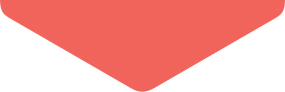
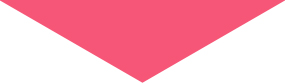
lnb 수정

diff --git a/src/css/01_layout.css b/src/css/01_layout.css
@@ -77,9 +77,9 @@ caption{visibility:hidden;overflow:hidden;width:0;height:0;font-size:0;line-heig
 #top .searchWrap .recently li{border-radius: 20px;border:1px solid #d9d9d9;}
 #top .searchWrap .recently a{display: inline-block;padding: 12px 14px;color: #666;}
 
-.lnbWrapper {overflow: hidden;position: fixed;top: 0;bottom: 0;left: -285px;width:285px;height: 100%;background:#fff;z-index:2;box-shadow:0px 6px 6px rgba(0,0,0,0.12);}
+.lnbWrapper {overflow: hidden;position: fixed;top:113px;bottom: 0;left: -285px;width:285px;height: 100%;background:#fff;z-index:110;box-shadow:0px 6px 6px rgba(0,0,0,0.12);}
 .lnb {overflow: auto;background:#fff;text-align: center;}
-.lnb .profile{position: relative;min-height:340px;padding-bottom:70px;background: #f1645c url('../images/bg_lnb.jpg') no-repeat bottom;}
+.lnb .profile{position: relative;min-height:340px;padding-bottom:83px;background: #f65677 url('../images/bg_lnb.jpg') no-repeat bottom;}
 .lnb .profile .count{border-radius:10px;padding:4px 7px;color:#fff;font-size:13px;font-family:'RobotoM',sans-serif;}
 .lnb .profile .close{float: left;display: block;width: 80px;height:60px;background: url('../images/btn_close.png') no-repeat center}
 .lnb .profile .setting{float: right;display: block;width: 80px;height:60px;background: url('../images/btn_set.png') no-repeat center}
@@ -104,7 +104,7 @@ caption{visibility:hidden;overflow:hidden;width:0;height:0;font-size:0;line-heig
 .lnb .profile .myMenu li:first-child{border:0;}
 .lnb .profile .myMenu li a{display:block; padding:10px 0 10px 10px;color: #fff;font-size:14px;}
 .lnb .profile .myMenu .count{float: right;margin-top: -2px;background: #d64e48;}
-.lnb .profile .menuToggle{position: absolute;bottom: 20px;left: 50%; width:40px;height: 40px;margin-left: -20px;background: #D64E48 url('../images/ico_toggleW.png') no-repeat center;border-radius: 50%;
+.lnb .profile .menuToggle{position: absolute;bottom: 20px;left: 50%; width:40px;height: 40px;margin-left: -20px;background: #d93a5b url('../images/ico_toggleW.png') no-repeat center;border-radius: 50%;
 	-webkit-transition: all 0.2s ease-in-out;-moz-transition:all 0.2s ease-in-out;-o-transition:all 0.2s ease-in-out;-ms-transition:all 0.2s ease-in-out;}
 .lnb .profile .menuToggle.opened{-ms-transform: rotate(180deg);-webkit-transform: rotate(180deg);transform: rotate(180deg);}
 .lnb .leftMenu{margin-top:13px;padding: 0 30px;line-height: 2em;text-align: left;}

diff --git a/src/js/pages/Page.js b/src/js/pages/Page.js
@@ -320,7 +320,8 @@ module.exports = function() {
 	function bannerClose(){ // main banner 닫기
 		$('.bannerClose').click(function(){
 			$(this).parent().parent().addClass('bannerHide');
-			$('.main .container').css('padding-top','0')
+			$('.main .container').css('padding-top','0');
+			$('.lnbWrapper').css('top', '0');
 		});
 	}
 }
